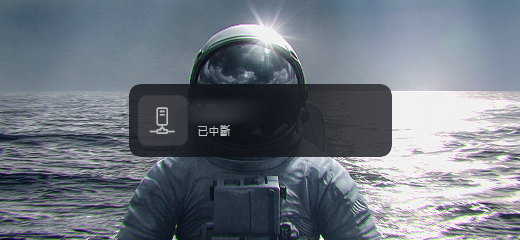
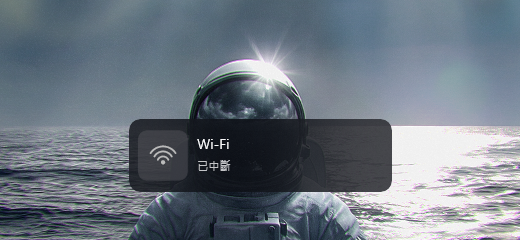
docs(fluent-osd): refresh Wi-Fi and Bluetooth device screenshots
Keep original 520x240 unscaled crops, replace the old generic network capture, add real keyboard/mouse notification examples, and update the asset gallery.

diff --git a/README.md b/README.md
@@ -30,11 +30,11 @@ Actual Windows 11 captures, cropped to **520 × 240 pixels** without resizing or
 
 ### System and device events
 
-| Bluetooth | Network interface |
-| :---: | :---: |
-| ![Bluetooth](fluent-osd/screenshots/08_bluetooth.png) | ![Network event](fluent-osd/screenshots/12_network.png) |
+| Wi-Fi disconnected | Bluetooth keyboard connected | Bluetooth mouse connected |
+| :---: | :---: | :---: |
+| ![Wi-Fi disconnected](fluent-osd/screenshots/12_network.png) | ![MX Keys Mini connected](fluent-osd/screenshots/13_bluetooth_keyboard.png) | ![MX Master 4 B connected](fluent-osd/screenshots/14_bluetooth_mouse.png) |
 
-See also the [Caps Lock example](fluent-osd/screenshots/07_caps_lock.png).
+See also the [general Bluetooth example](fluent-osd/screenshots/08_bluetooth.png) and the [Caps Lock example](fluent-osd/screenshots/07_caps_lock.png).
 
 See [Fluent OSD](https://github.com/reg-chen/windhawk-mods/blob/fluent-osd-brush-layers/mods/fluent-osd.wh.cpp) for the Windhawk mod source and feature notes.
 
